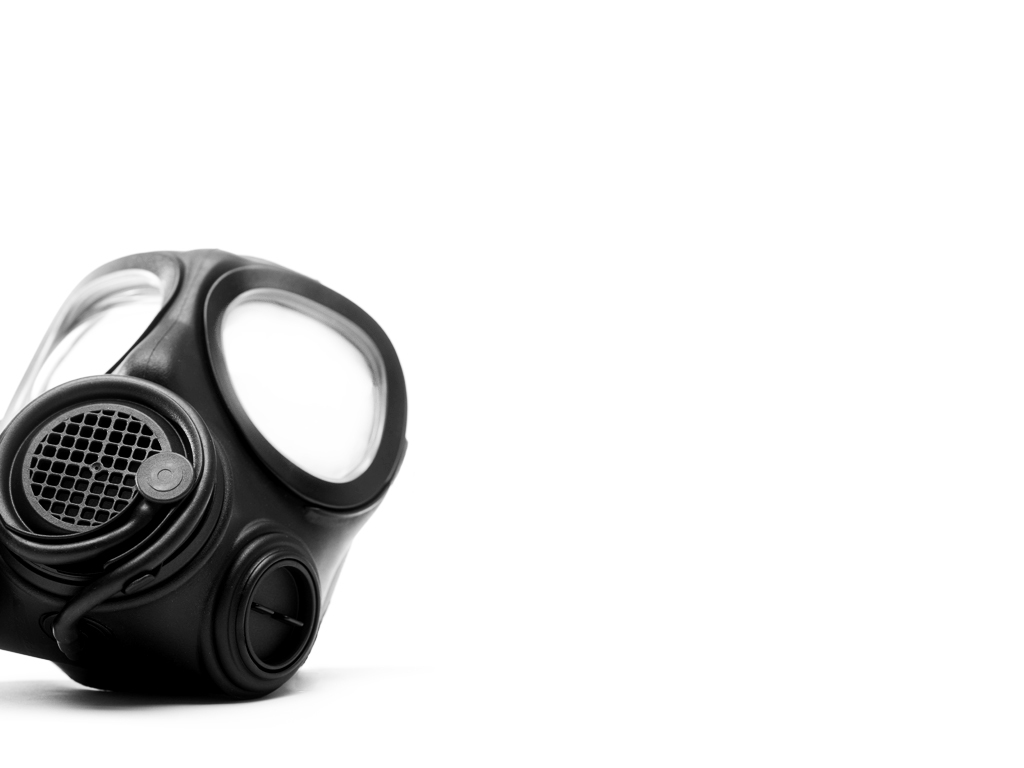
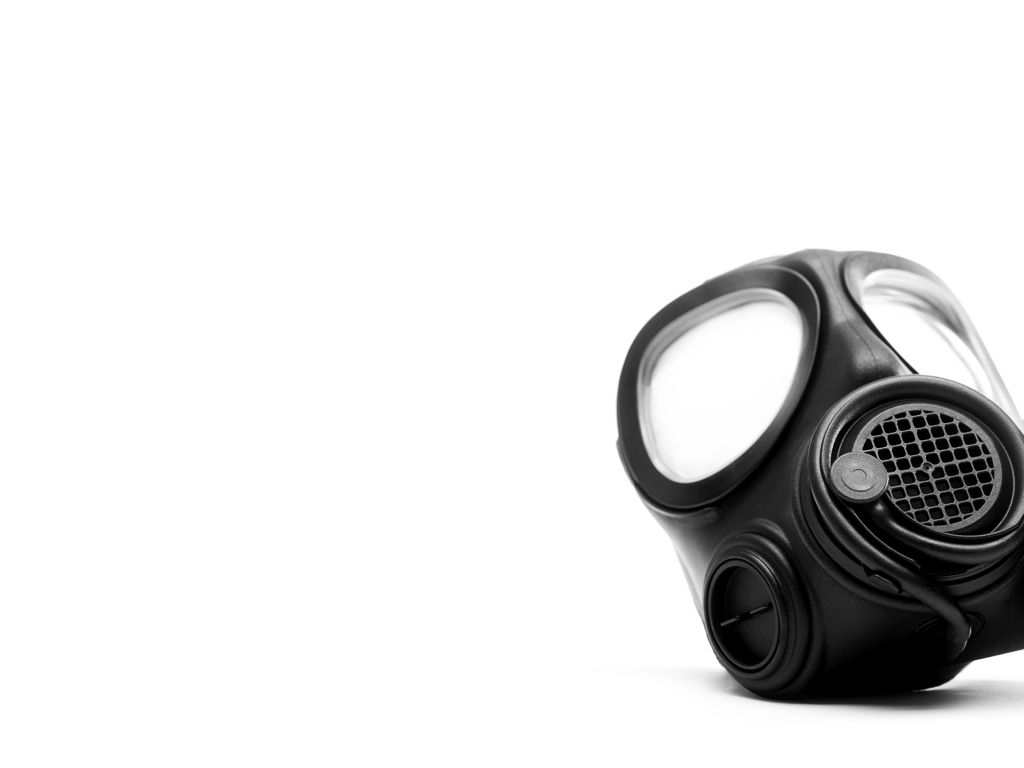
Restyle header

diff --git a/app/assets/stylesheets/custom.css.scss b/app/assets/stylesheets/custom.css.scss
@@ -11,6 +11,11 @@ $darkRed: #a22a22;
 .center{
 	text-align:center;
 }
+.raised {
+    -webkit-box-shadow: 0 10px 10px -10px rgba(0, 0, 0, 0.5), 0 1px 4px rgba(0, 0, 0, 0.3), 0 0 40px rgba(0, 0, 0, 0.1) inset;
+    -moz-box-shadow: 0 10px 10px -10px rgba(0, 0, 0, 0.5), 0 1px 4px rgba(0, 0, 0, 0.3), 0 0 40px rgba(0, 0, 0, 0.1) inset;
+    box-shadow: 0 10px 10px -10px rgba(0, 0, 0, 0.5), 0 1px 4px rgba(0, 0, 0, 0.3), 0 0 40px rgba(0, 0, 0, 0.1) inset;
+}
 .border{
 	border:1px solid black;
 }
@@ -62,25 +67,23 @@ a:hover{
 	color:black;
 }
 body{
-	background:url('background.jpeg') top;
+	background:url('background.jpeg') center;
 	background-size:100%;
 	background-repeat:no-repeat;
 }
 .logo{
 	margin-top:20px;
 	margin-bottom:20px;
+	border-bottom:15px solid $darkRed;
 	h3{
 		font-size:2em;
-		font-family: 'Diplomata SC', cursive;
 		letter-spacing:8px;
+		text-transform:uppercase;
 		a{
-			color:$darkRed;
+			color:$grayLight;
+			line-height:2.5em;
 		}
 	}
-		.subheader{
-			font-style:italic;
-			margin-left:10px;
-		}
 }
 header{
 	margin-bottom:20px;
@@ -125,7 +128,7 @@ footer{
 
 .blog_post{
 	margin:20px;
-	border:2px solid $grayLighter;
+	border:3px solid $grayLighter;
 	background:white;
 	padding:10px;
 	margin-bottom:20px;
@@ -161,16 +164,15 @@ footer{
 	margin-bottom:3px;
 	float:left;
 }
+.who-am-i{
+	@extend .raised;
+}
 .who-am-i img{
-	border-top-left-radius:20px;
-	border-top-right-radius:20px;
 	z-index:9999;
 }
 .who-am-i .name{
 	position:relative;
 	font-size:20px;
-	border-bottom-right-radius:20px;
-	border-bottom-left-radius:20px;
 	padding-top:10px;
 	color:white;
 	background:#a22a22;
